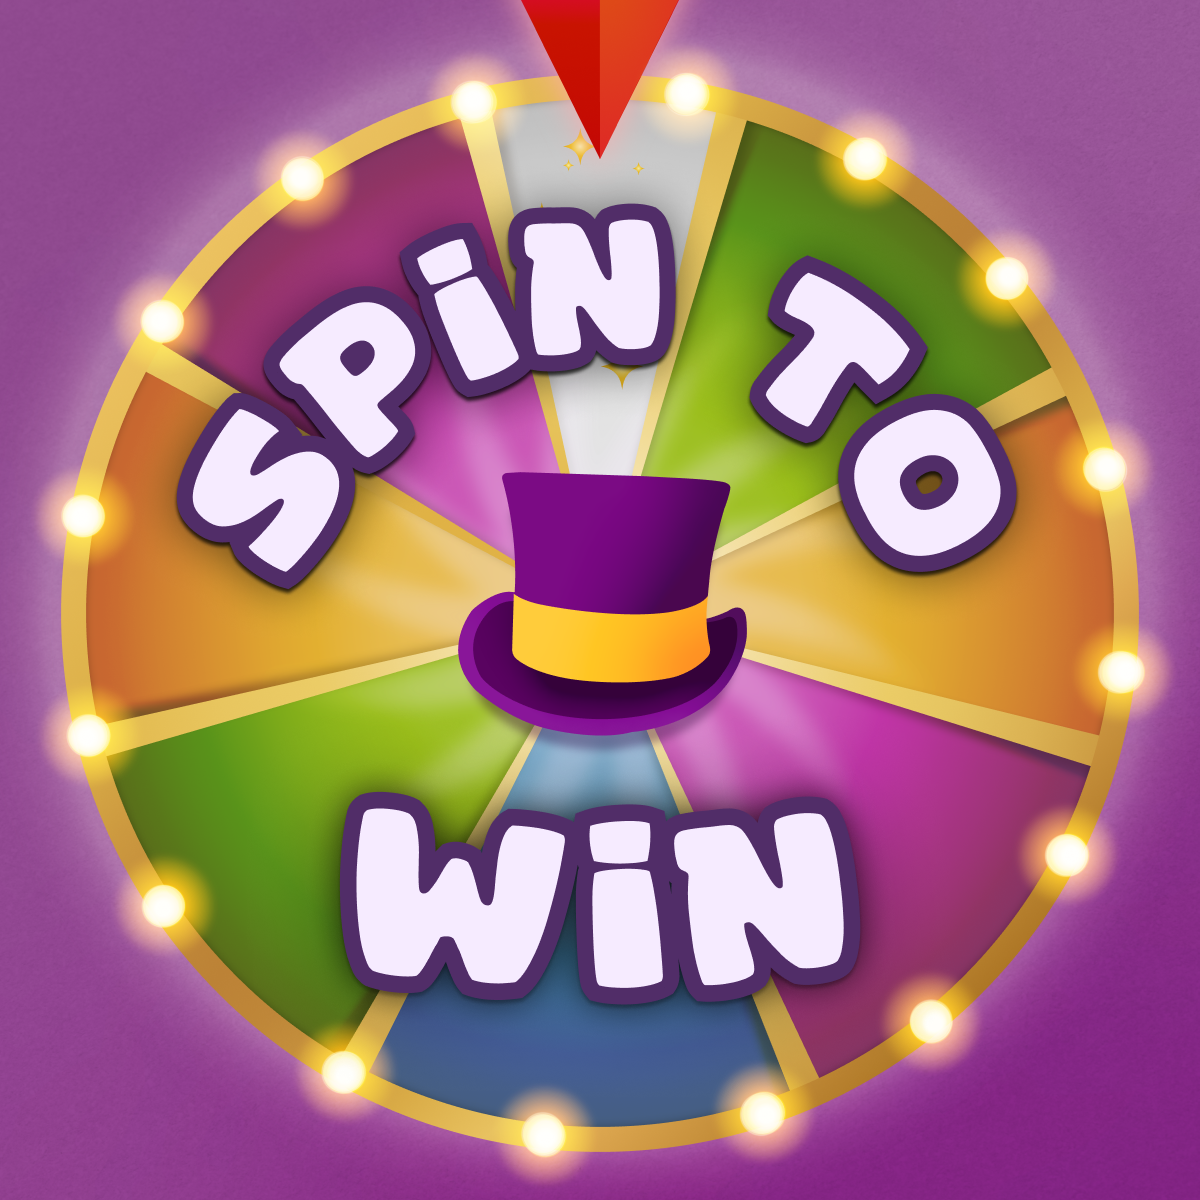
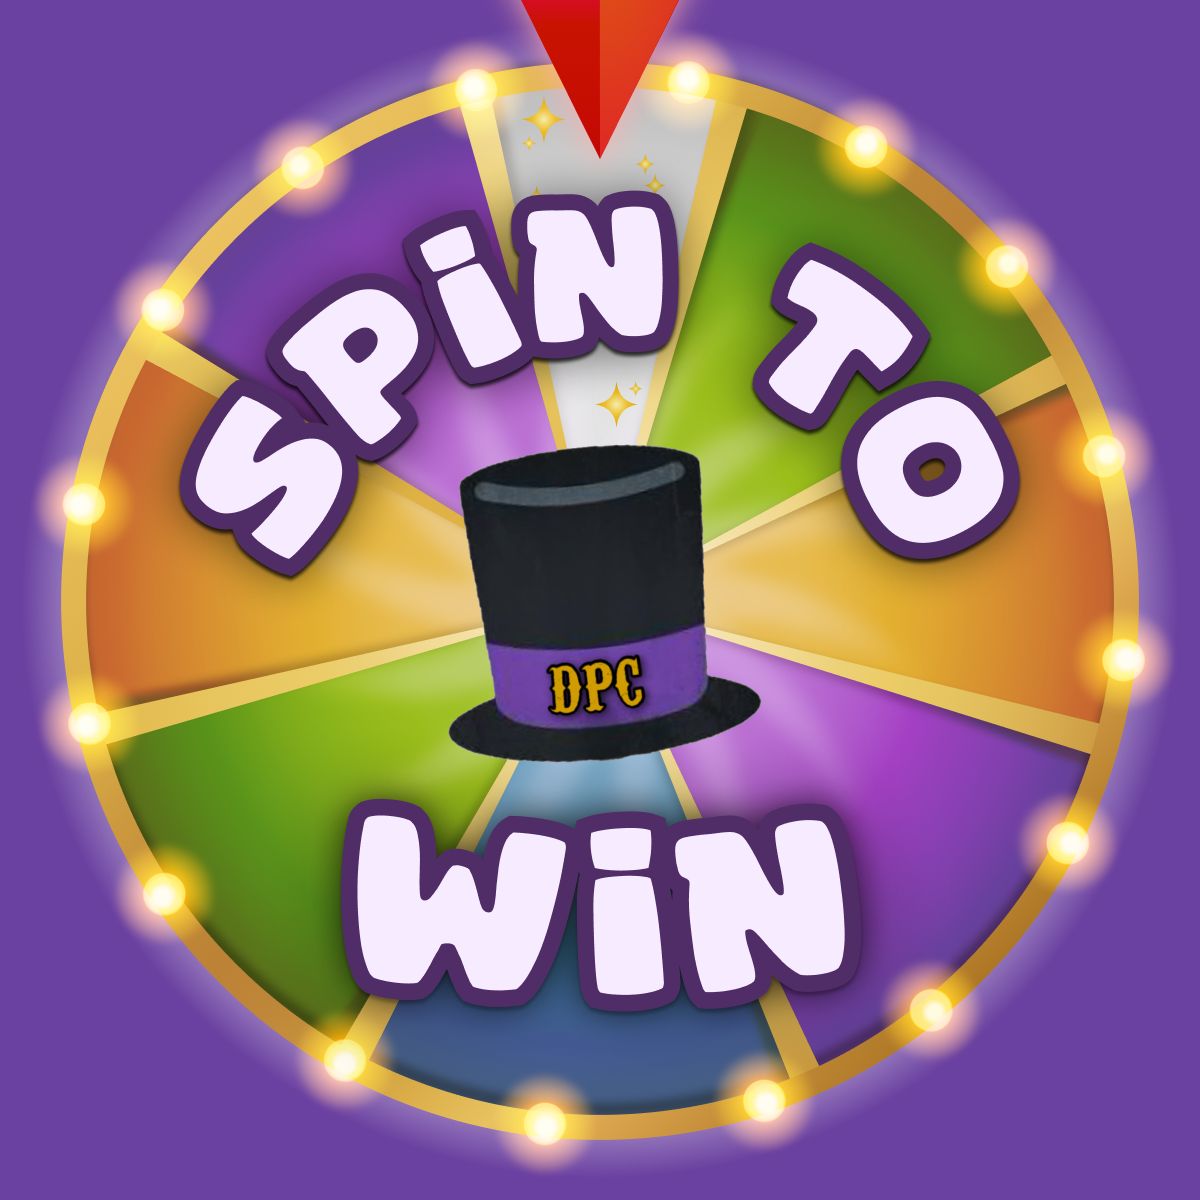
Added redesigned wheel for spin to win

diff --git a/web/src/app/spin-to-win/slugConfigs/degenPrices.ts b/web/src/app/spin-to-win/slugConfigs/degenPrices.ts
@@ -142,7 +142,7 @@ export const degenPricesSlugConfig: SpinToWinConfig = {
         },
     },
     externalLinkConfig: {
-        title: "View /degenprice",
+        title: "Go to /degenprice",
         href: "https://warpcast.com/~/channel/degenprice",
     },
 };
